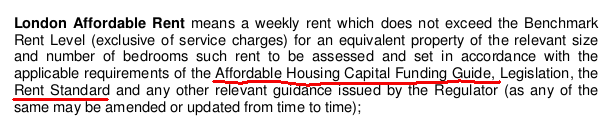
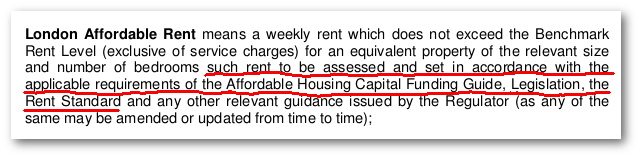
lst changes

diff --git a/redefining-social-rent.md b/redefining-social-rent.md
@@ -178,7 +178,7 @@ GLA Housing Chief Jamie Ratcliff [responded](https://twitter.com/Jamrat_/status/
 
 The key words here are _"such rent continues to be set and charged in accordance with the criteria of the __London Affordable Rent__"_. This contracts out what happens to rent levels after the 'initial rent' (charged according to the Benchmark Level) to other provisions in the contract, namely the one entitled __"London Affordable Rent"__.
 
-This in turn says that the LAR tenure is to be governed _"in accordance with the applicable requirements of the Affordable Housing Capital Funding Guide, Legislation, the Rent Standard and any other relevant Guidance issued by the Regulator"_. 
+This in turn says (contradictingly) that LAR rents are to be set at the Benchmark levels but also set and governed  _"in accordance with the applicable requirements of the Affordable Housing Capital Funding Guide, Legislation, the Rent Standard and any other relevant Guidance issued by the Regulator"_. 
 
 ![](/img/ahcfg.png)
 *Extract from the GLA's [Standard Form Funding Agreement](http://35percent.org/img/standardformagreement2017.pdf)*
@@ -188,9 +188,9 @@ So what happens subsequent to the "initial rent" at Benchmark (social rent) leve
 ![](/img/rentreviews.png)
 *Extract from the HCA's [Affordable Housing Capital Funding Guide](https://www.gov.uk/guidance/capital-funding-guide/4-housing-for-rent#rent-reviews)*
 
-Not only is the Capital Funding Guide crystal clear on how rents can be rebased to 80% market rent on relet, but it also states that the tenure _" will be subject to requirements of the Welfare Reform and Work Act 2016 and regulations made under it."_.  
+Not only is the Capital Funding Guide clear on how rents can be rebased to 80% market rent on relet, but it also states that the tenure _" will be subject to requirements of the Welfare Reform and Work Act 2016 and regulations made under it."_.  
 
-So from the details available so far, it would appear that there is nothing in the GLA's funding agreement that would stop a housing association from issuing a fixed term tenancy on a London Affordable Rent home and then racking up the rent to 80% market at the end of the tenancy? 
+So from the details available so far, it would appear that there are contradictory provisions in the GLA's funding agreement that may allow a housing association to issue a fixed term tenancy on an LAR home and then rack up the rent to 80% market on relet.
 
 Jamie Ratcliff's [initial response](https://twitter.com/Jamrat_/status/885766590633058304) was that the Capital Funding Guidance _'hasn't been updated yet'_ and that it and the GLA's standard form contract will be updated to _'be clear that benchmarks act as caps in perpetuity'_. But he [subsequently responded](https://twitter.com/Jamrat_/status/885843111091589120) that the GLA's contract didn't need updating and that only the HCA's Capital Funding Guide needs updating, to include a whole new section.
 
@@ -204,5 +204,5 @@ With 17,500 new __London Affordable Rent__ homes proposed in just the first roun
 
  * How will the GLA ensure that the Tory-run DCLG/HCA agrees to the rebasing exemptions for LAR? 
 
-Meanwhile, if the small print is not updated and LAR tenure not exempted from rebasing on relets, then the Mayor's new __London Affordable Rent__ might prove to be just a quick and temporary fix that will last only as long as the fixed term tenancies issued under this new tenure.
+Meanwhile, if the small print is not updated and LAR tenure not exempted from rebasing on relets, then the Mayor's new __London Affordable Rent__ might prove to be just a quick and temporary fix that may last only as long as the fixed term tenancies issued under this new tenure.
 
